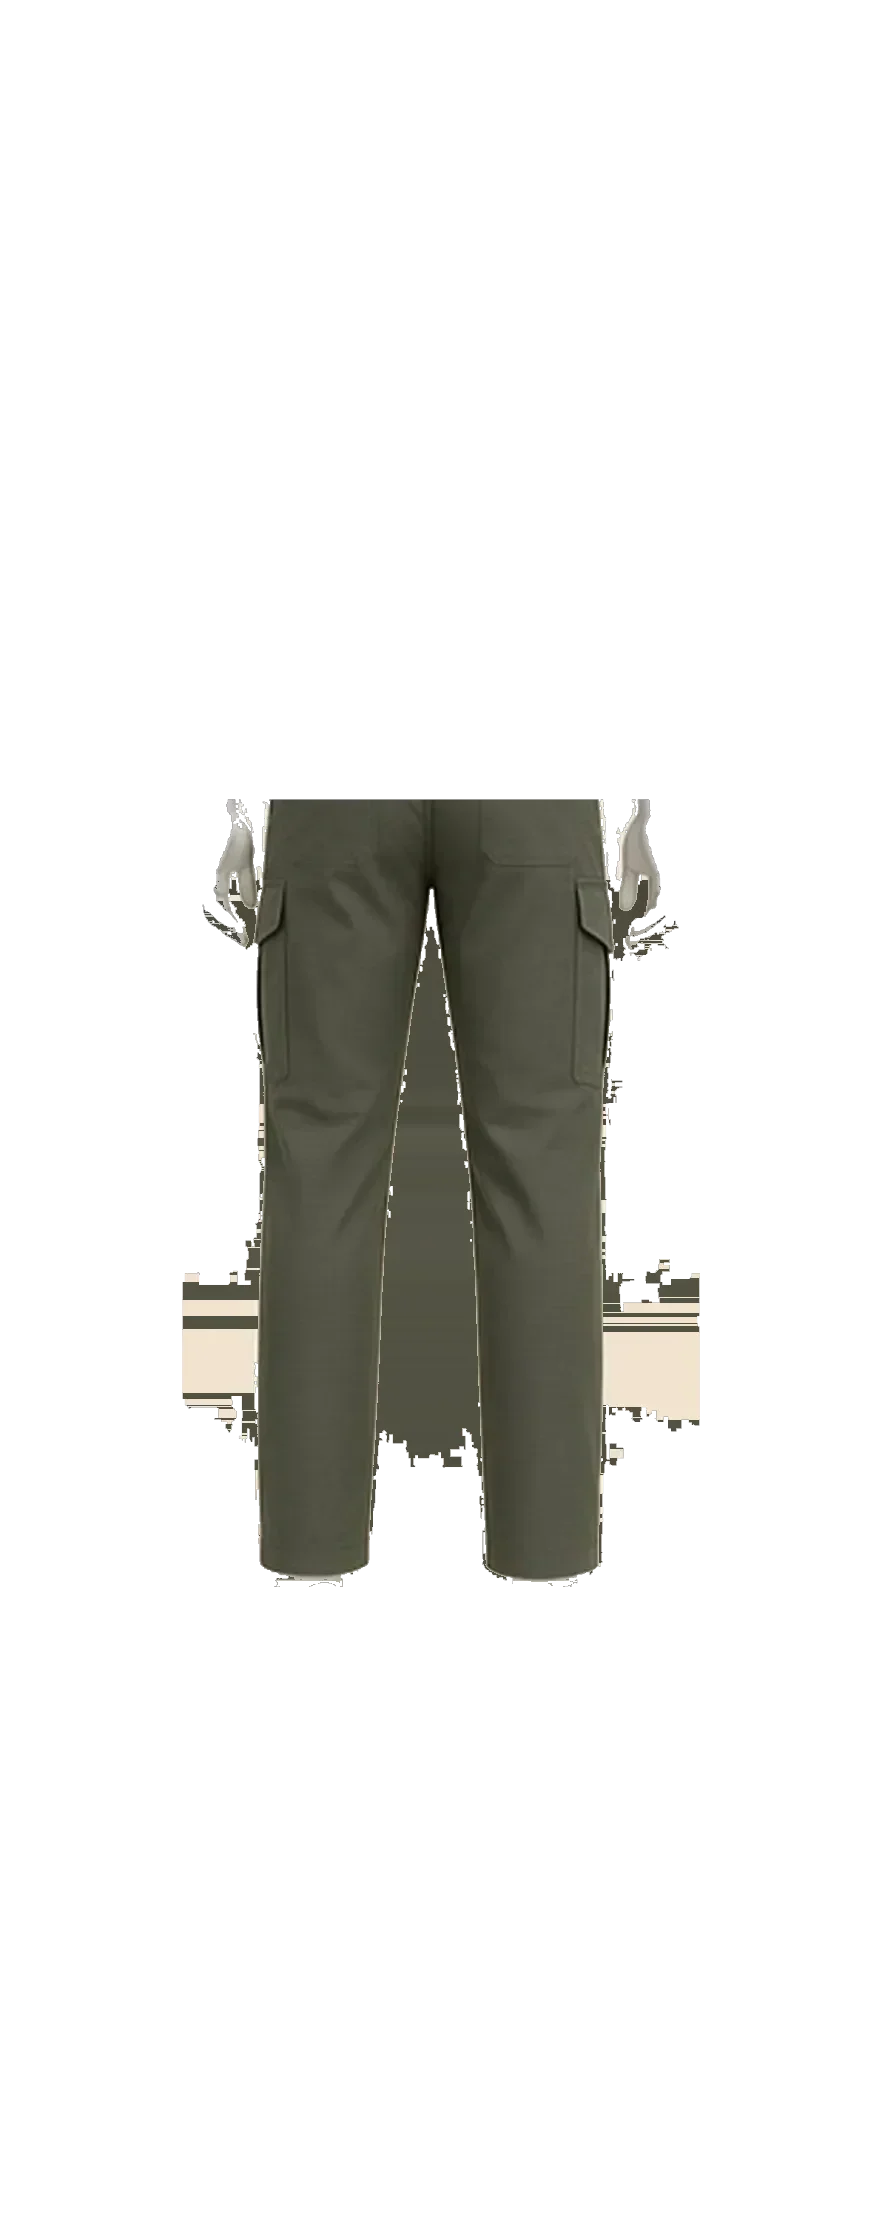
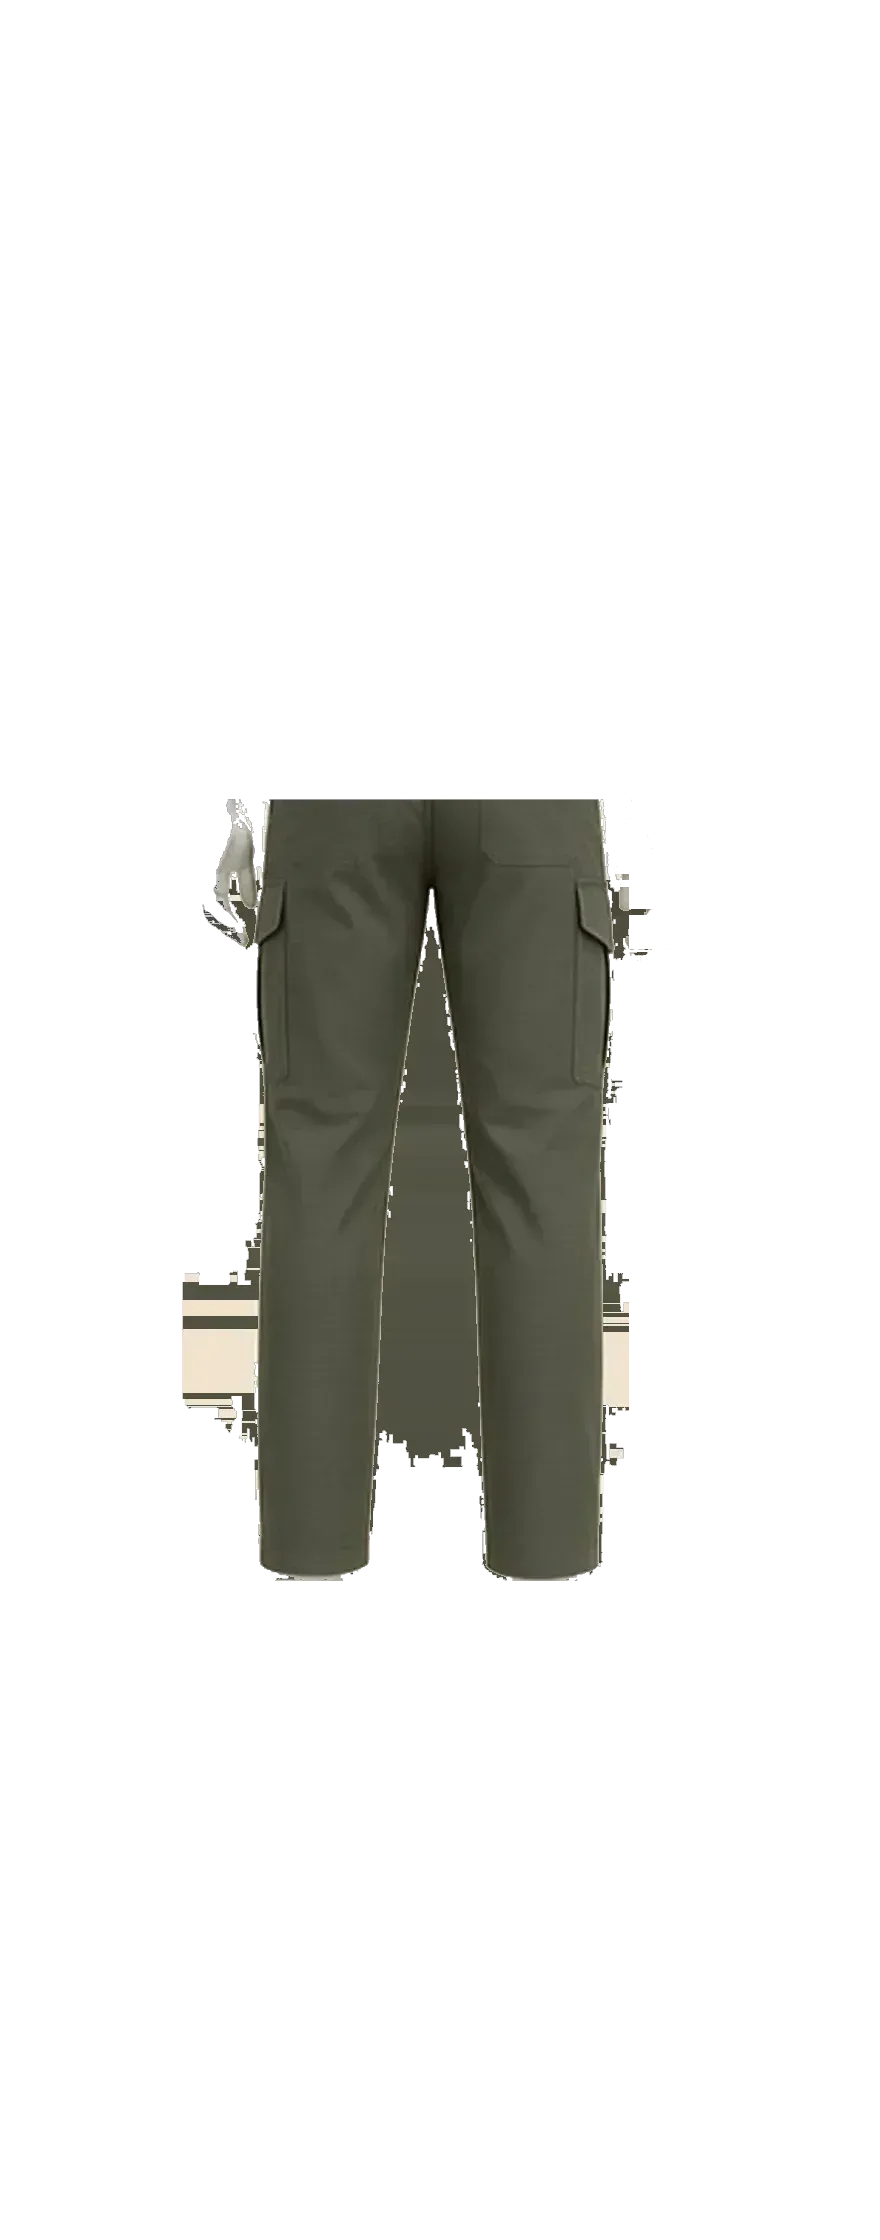
Viste el maniqui como a una persona: la camisa entra al pantalon, la correa queda en la cintura y la gorra en la cabeza.

Changed region(s): [[0.7057, 0.5625, 0.7977, 0.6562], [0.7057, 0.3438, 0.767, 0.4375]]

diff --git a/js/probar.js b/js/probar.js
@@ -23,7 +23,7 @@
   const note = document.querySelector("[data-fit-note]");
   const picksEl = document.querySelector("[data-fit-picks]");
   const add = document.querySelector("[data-fit-add]");
-  const puesto = { arriba: null, abajo: null, completo: null, cabeza: null, pies: null, cintura: null, manos: null, extra: [] };
+  const puesto = { arriba: null, abajo: null, completo: null, cabeza: null, cara: null, pies: null, cintura: null, manos: null, extra: [] };
   let tab = "camisas";
   let frames = [];
   let extras = [];
@@ -77,7 +77,7 @@
 
   function vista(item, numero) {
     const clave = item.id.toLowerCase().replace(/-/g, "");
-    return `img/puesto/${clave}-${String(numero).padStart(2, "0")}.webp?v=12`;
+    return `img/puesto/${clave}-${String(numero).padStart(2, "0")}.webp?v=13`;
   }
 
   function foto(item) {
@@ -89,7 +89,7 @@
   }
 
   function accesoriosPuestos() {
-    return [puesto.cabeza, puesto.pies, puesto.cintura, puesto.manos, ...puesto.extra].filter(Boolean);
+    return [puesto.cabeza, puesto.cara, puesto.pies, puesto.cintura, puesto.manos, ...puesto.extra].filter(Boolean);
   }
 
   function todosPuestos() {
@@ -100,33 +100,54 @@
     return todosPuestos().some((item) => item.id === id);
   }
 
-  const cuello = 150;
-  const cinturaY = 448;
-  const tobillo = 1005;
-  const trenSuperior = { y: cuello, alto: cinturaY - cuello + 20, ancho: 286 };
-  const trenInferior = { y: cinturaY - 16, alto: tobillo - (cinturaY - 16), ancho: 400, soporte: true };
-  const trenCompleto = { y: cuello, alto: tobillo - cuello, ancho: 286 };
+  const cuello = 196;
+  const cinturaY = 430;
+  const tobillo = 1004;
+  const planta = 1056;
+  const mete = 72;
+  const trenSuperior = { y: cuello, alto: cinturaY - cuello + mete, ancho: 320 };
+  const trenInferior = { y: cinturaY - 14, alto: tobillo - (cinturaY - 14), ancho: 260, soporte: true };
+  const trenCompleto = { y: cuello, alto: tobillo - cuello, ancho: 320 };
   const trenExtra = {
-    cabeza: { y: 28, alto: 128, ancho: 112, base: 152 },
-    cara: { y: 104, alto: 26, ancho: 72 },
-    cintura: { y: cinturaY - 6, alto: 26, ancho: 220 },
-    pies: { y: 940, alto: 92, ancho: 156, base: 1038 },
-    manos: { y: 380, alto: 72, ancho: 64, x: 336 },
+    cabeza: { y: 0, alto: 168, ancho: 148, base: 128 },
+    cara: { y: 124, alto: 28, ancho: 102 },
+    cintura: { y: cinturaY - 20, alto: 22, ancho: 148 },
+    pies: { y: planta - 84, alto: 84, ancho: 176, base: planta },
+    manos: { y: 500, alto: 78, ancho: 72 },
   };
 
   function figura(clase) {
+    const gid = "dt-vol-" + String(clase).replace(/[^a-z]/gi, "");
     const svg = document.createElementNS("http://www.w3.org/2000/svg", "svg");
     svg.setAttribute("class", clase);
     svg.setAttribute("viewBox", "0 0 440 1120");
     svg.setAttribute("aria-hidden", "true");
-    svg.innerHTML = `<defs><linearGradient id="dt-volumen" x1="0" y1="0" x2="1" y2="0"><stop offset="0" stop-color="#b7b1a6"/><stop offset="0.2" stop-color="#f7f4ee"/><stop offset="0.5" stop-color="#fffdfb"/><stop offset="0.8" stop-color="#efeae2"/><stop offset="1" stop-color="#aea79c"/></linearGradient></defs>
-      <ellipse cx="220" cy="1052" rx="54" ry="8" fill="rgba(40,32,20,0.16)"/>
-      <path fill="url(#dt-volumen)" d="M172 492c-4 70-8 240 0 430 2 24 12 42 26 44 12 1 20-14 20-34 0-130 2-300 4-410 0-14-16-24-26-26-12-2-22 4-24-4z"/>
-      <path fill="url(#dt-volumen)" d="M268 492c4 70 8 240 0 430-2 24-12 42-26 44-12 1-20-14-20-34 0-130-2-300-4-410 0-14 16-24 26-26 12-2 22 4 24-4z"/>
-      <path fill="url(#dt-volumen)" d="M150 168c-8 40-2 130 14 220 8 48 18 86 30 112h52c12-26 22-64 30-112 16-90 22-180 14-220-24 16-62 24-70 24s-46-8-70-24z"/>
-      <path fill="#efeae2" d="M204 122c2 14 4 26 6 40h20c2-14 4-26 6-40-6 4-16 6-16 6s-10-2-16-6z"/>
-      <ellipse cx="220" cy="86" rx="32" ry="38" fill="url(#dt-volumen)"/>
-      <ellipse cx="208" cy="80" rx="14" ry="22" fill="#fffdfb" opacity="0.55"/>`;
+    svg.innerHTML = `<defs>
+      <linearGradient id="${gid}" x1="0" y1="0" x2="1" y2="0">
+        <stop offset="0" stop-color="#8a847b"/>
+        <stop offset="0.14" stop-color="#d4cec3"/>
+        <stop offset="0.36" stop-color="#fbf8f4"/>
+        <stop offset="0.58" stop-color="#f1ece4"/>
+        <stop offset="0.82" stop-color="#c9c2b6"/>
+        <stop offset="1" stop-color="#7a746b"/>
+      </linearGradient>
+      <radialGradient id="${gid}-h" cx="40%" cy="36%" r="68%">
+        <stop offset="0" stop-color="#fffdfb"/>
+        <stop offset="0.45" stop-color="#efeae2"/>
+        <stop offset="1" stop-color="#9c968c"/>
+      </radialGradient>
+    </defs>
+      <ellipse cx="220" cy="1078" rx="70" ry="9" fill="rgba(40,32,20,0.16)"/>
+      <path fill="url(#${gid})" d="M170 548 C154 610 142 700 146 790 C150 860 154 930 158 990 C156 1020 150 1042 146 1054 C158 1068 198 1070 210 1056 C204 1030 196 1004 190 978 C186 900 184 820 188 760 C194 680 206 610 214 566 C200 548 182 540 170 548 Z"/>
+      <path fill="url(#${gid})" d="M270 548 C286 610 298 700 294 790 C290 860 286 930 282 990 C284 1020 290 1042 294 1054 C282 1068 242 1070 230 1056 C236 1030 244 1004 250 978 C254 900 256 820 252 760 C246 680 234 610 226 566 C240 548 258 540 270 548 Z"/>
+      <path fill="url(#${gid})" d="M150 224 C160 196 188 188 206 204 L234 204 C252 188 280 196 290 224 C302 260 298 320 290 370 C284 410 270 430 258 444 C268 488 276 518 268 548 C246 564 220 572 220 572 C220 572 194 564 172 548 C164 518 172 488 182 444 C170 430 156 410 150 370 C142 320 138 260 150 224 Z"/>
+      <path fill="url(#${gid})" d="M138 214 C118 230 102 280 104 340 C106 390 114 450 122 500 C126 524 120 542 126 558 C118 570 132 584 150 576 C164 568 160 544 154 522 C152 470 146 400 142 350 C138 290 152 246 166 220 C158 206 148 204 138 214 Z"/>
+      <path fill="url(#${gid})" d="M302 214 C322 230 338 280 336 340 C334 390 326 450 318 500 C314 524 320 542 314 558 C322 570 308 584 290 576 C276 568 280 544 286 522 C288 470 294 400 298 350 C302 290 288 246 274 220 C282 206 292 204 302 214 Z"/>
+      <path fill="#000" opacity="0.06" d="M176 218 C196 232 244 232 264 218 C248 234 192 234 176 218 Z"/>
+      <path fill="url(#${gid})" d="M202 160 C198 178 192 194 186 210 L254 210 C248 194 242 178 238 160 C226 168 214 168 202 160 Z"/>
+      <ellipse cx="176" cy="116" rx="9" ry="13" fill="url(#${gid})"/>
+      <ellipse cx="264" cy="116" rx="9" ry="13" fill="url(#${gid})"/>
+      <path fill="url(#${gid}-h)" d="M220 48 C246 48 268 70 270 100 C272 126 262 148 248 160 C236 172 228 178 220 180 C212 178 204 172 192 160 C178 148 168 126 170 100 C172 70 194 48 220 48 Z"/>`;
     return svg;
   }
 
@@ -177,9 +198,9 @@
   function medidaFrente(img, box, tren) {
     const bw = box.w * (440 / img.naturalWidth);
     const bh = box.h * (1120 / img.naturalHeight);
-    let scale = tren.alto / Math.max(1, bh);
-    if (bw * scale > tren.ancho) scale = tren.ancho / Math.max(1, bw);
-    return scale;
+    const porAlto = tren.alto / Math.max(1, bh);
+    const porAncho = tren.ancho / Math.max(1, bw);
+    return Math.max(porAlto, porAncho);
   }
 
   function pintarRecorte(canvas, img, box, scale, tren) {
@@ -214,10 +235,10 @@
     const corto = /\blicra\b|pantaloneta|\bfalda\b|bermuda/.test(plain(item.name));
     const largo = /chaqueta|chaleco/.test(plain(item.name));
     const tren = clase === "fit-abajo"
-      ? (corto ? { y: cinturaY - 16, alto: 220, ancho: 210, soporte: true } : trenInferior)
+      ? (corto ? { y: cinturaY - 14, alto: 248, ancho: 230, soporte: true } : trenInferior)
       : clase === "fit-full"
         ? trenCompleto
-        : (largo ? { y: cuello, alto: 400, ancho: 310 } : trenSuperior);
+        : (largo ? { y: cuello, alto: 520, ancho: 340 } : trenSuperior);
     const zonaNombre = clase === "fit-abajo" ? "abajo" : clase === "fit-full" ? "completo" : "arriba";
     const imgs = [];
     const lienzos = [];
@@ -231,6 +252,7 @@
       canvas.className = "fit-capa";
       canvas.dataset.grupo = item.id;
       canvas.dataset.zona = zonaNombre;
+      canvas.dataset.prenda = categoria(item);
       canvas.style.cssText = "opacity:0;visibility:hidden;";
       lienzos.push(canvas);
       caja.append(canvas);
@@ -267,42 +289,86 @@
     ctx.drawImage(img, box.x, box.y, box.w, box.h, dx, dy, dw, dh);
   }
 
-  function vestirCintura(canvas, img, box) {
-    const ctx = canvas.getContext("2d");
-    const y = cinturaY - 4;
-    ctx.fillStyle = "#161616";
-    ctx.beginPath();
-    ctx.roundRect(112, y, 216, 18, 8);
-    ctx.fill();
-    ctx.fillStyle = "#3a3a3a";
-    ctx.fillRect(112, y, 216, 3);
-    const bw = Math.max(1, box.w * 0.38);
-    const bh = Math.max(1, box.h * 0.62);
-    const bx = box.x + (box.w - bw) / 2;
-    const by = box.y + box.h * 0.18;
-    ctx.drawImage(img, bx, by, bw, bh, 176, y - 22, 88, 58);
+  function colorTela(img, box) {
+    const c = document.createElement("canvas");
+    c.width = img.naturalWidth;
+    c.height = img.naturalHeight;
+    const ctx = c.getContext("2d", { willReadFrequently: true });
+    ctx.drawImage(img, 0, 0);
+    const puntos = [
+      [box.x + box.w * 0.5, box.y + box.h * 0.55],
+      [box.x + box.w * 0.2, box.y + box.h * 0.5],
+      [box.x + box.w * 0.8, box.y + box.h * 0.5]
+    ];
+    let r = 0;
+    let g = 0;
+    let b = 0;
+    let n = 0;
+    puntos.forEach(([x, y]) => {
+      const px = ctx.getImageData(Math.max(0, Math.floor(x)), Math.max(0, Math.floor(y)), 1, 1).data;
+      if (px[3] < 40) return;
+      r += px[0];
+      g += px[1];
+      b += px[2];
+      n += 1;
+    });
+    if (!n) return "#1a1a1a";
+    return `rgb(${Math.round(r / n)},${Math.round(g / n)},${Math.round(b / n)})`;
   }
 
-  function vestirAccesorio(item, zone) {
-    const tren = { ...(trenExtra[zone] || trenExtra.cintura) };
+  function vestirCintura(correa, hebilla, img, box) {
+    const y = cinturaY - 18;
+    const ctx = correa.getContext("2d");
+    ctx.fillStyle = colorTela(img, box);
+    ctx.beginPath();
+    ctx.roundRect(136, y, 168, 16, 7);
+    ctx.fill();
+    ctx.fillStyle = "rgba(255,255,255,0.18)";
+    ctx.fillRect(136, y, 168, 3);
+    const h = hebilla.getContext("2d");
+    const bw = Math.max(1, box.w * 0.34);
+    const bh = Math.max(1, box.h * 0.55);
+    const bx = box.x + (box.w - bw) / 2;
+    const by = box.y + box.h * 0.2;
+    h.drawImage(img, bx, by, bw, bh, 188, y - 10, 64, 40);
+  }
+
+  function vestirManos(canvas, img, box) {
+    [[96, 508], [272, 508]].forEach(([x, y]) => {
+      pintarFoto(canvas, img, box, { x, y, ancho: 72, alto: 78 });
+    });
+  }
+
+  function lienzoAccesorio(zone) {
     const canvas = document.createElement("canvas");
     canvas.width = 440;
     canvas.height = 1120;
     canvas.className = "fit-capa fit-accesorio";
     canvas.dataset.zona = zone;
+    return canvas;
+  }
+
+  function vestirAccesorio(item, zone) {
+    const tren = { ...(trenExtra[zone] || trenExtra.cintura) };
+    const canvas = lienzoAccesorio(zone);
+    const extra = zone === "cintura" ? lienzoAccesorio("hebilla") : null;
     const image = new Image();
     image.src = foto(item);
     cuandoCargue(image, () => {
       const box = cajaDe(image) || { x: 0, y: 0, w: image.naturalWidth, h: image.naturalHeight };
       if (!box.w || !image.naturalWidth) return;
       if (zone === "cintura") {
-        vestirCintura(canvas, image, box);
+        vestirCintura(canvas, extra, image, box);
         return;
       }
-      if (zone === "pies") tren.base = 1038;
+      if (zone === "manos") {
+        vestirManos(canvas, image, box);
+        return;
+      }
+      if (zone === "pies") tren.base = planta;
       pintarFoto(canvas, image, box, tren);
     });
-    return canvas;
+    return extra ? [canvas, extra] : canvas;
   }
 
   function paint() {
@@ -358,8 +424,9 @@
     cuerpoCaja.className = "fit-body";
     stage.replaceChildren(cuerpoCaja);
     const base = figura("fit-blank");
-    if (puesto.pies) base.style.clipPath = "inset(0 0 6% 0)";
-    else if (puesto.abajo && !/\blicra\b|pantaloneta|\bfalda\b|bermuda/.test(plain(puesto.abajo.name))) base.style.clipPath = "inset(0 0 4% 0)";
+    const abajoCorto = puesto.abajo && /\blicra\b|pantaloneta|\bfalda\b|bermuda/.test(plain(puesto.abajo.name));
+    if (puesto.completo) base.style.clipPath = "inset(0 0 82% 0)";
+    else if (puesto.abajo && !abajoCorto) base.style.clipPath = "inset(0 0 58% 0)";
     cuerpoCaja.append(base);
     frames = [];
     extras = [];
@@ -370,15 +437,17 @@
     });
     if ((puesto.arriba || puesto.completo) && !puesto.cabeza) {
       const piel = figura("fit-piel");
-      piel.style.clipPath = "inset(0 0 86% 0)";
+      piel.style.clipPath = "inset(0 0 84% 0)";
       cuerpoCaja.append(piel);
     }
     accesoriosPuestos().forEach((item) => {
       const zone = zona(item);
       if (!trenExtra[zone]) return;
-      const lienzo = vestirAccesorio(item, zone);
-      cuerpoCaja.append(lienzo);
-      extras.push(lienzo);
+      const lienzos = vestirAccesorio(item, zone);
+      (Array.isArray(lienzos) ? lienzos : [lienzos]).forEach((lienzo) => {
+        cuerpoCaja.append(lienzo);
+        extras.push(lienzo);
+      });
     });
     angle = frames.length ? angle : 0;
     paint();
@@ -386,7 +455,7 @@
   }
 
   function quitar(id) {
-    ["arriba", "abajo", "completo", "cabeza", "pies", "cintura", "manos"].forEach((key) => {
+    ["arriba", "abajo", "completo", "cabeza", "cara", "pies", "cintura", "manos"].forEach((key) => {
       if (puesto[key] && puesto[key].id === id) puesto[key] = null;
     });
     puesto.extra = puesto.extra.filter((item) => item.id !== id);
@@ -508,7 +577,7 @@
       note.textContent = "En el carrito no hay prendas ni accesorios para vestir el maniquí.";
       return;
     }
-    ["arriba", "abajo", "completo", "cabeza", "pies", "cintura", "manos"].forEach((key) => { puesto[key] = null; });
+    ["arriba", "abajo", "completo", "cabeza", "cara", "pies", "cintura", "manos"].forEach((key) => { puesto[key] = null; });
     puesto.extra = [];
     items.forEach((item) => poner(item));
     pintarGrid();

diff --git a/probar.html b/probar.html
@@ -10,7 +10,7 @@
     <link rel="preconnect" href="https://fonts.googleapis.com" />
     <link rel="preconnect" href="https://fonts.gstatic.com" crossorigin />
     <link href="https://fonts.googleapis.com/css2?family=Big+Shoulders+Display:wght@500;600;700&family=Outfit:wght@300;400;500;600&display=swap" rel="stylesheet" />
-    <link rel="stylesheet" href="css/styles.css?v=real106" />
+    <link rel="stylesheet" href="css/styles.css?v=real107" />
     <script>document.documentElement.classList.add("js");</script>
   </head>
   <body data-wa="573227043082">
@@ -75,7 +75,7 @@
     </a>
     <script src="js/productos.js?v=real44" defer></script>
     <script src="js/store.js?v=real90" defer></script>
-    <script src="js/probar.js?v=37" defer></script>
+    <script src="js/probar.js?v=42" defer></script>
     <script src="js/main.js?v=real45" defer></script>
   </body>
 </html>

diff --git a/css/styles.css b/css/styles.css
@@ -1025,18 +1025,34 @@ button.consult {
   pointer-events: none;
 }
 
-.fit-capa[data-zona="arriba"],
-.fit-capa[data-zona="completo"] {
+.fit-capa[data-zona="arriba"] {
   z-index: 2;
 }
 
-.fit-accesorio {
-  z-index: 8;
+.fit-capa[data-zona="cintura"] {
+  z-index: 3;
+}
+
+.fit-capa[data-zona="abajo"],
+.fit-capa[data-zona="completo"] {
+  z-index: 4;
 }
 
 .fit-capa[data-prenda="chaquetas"],
 .fit-capa[data-prenda="chalecos"] {
+  z-index: 5;
+}
+
+.fit-accesorio {
+  z-index: 7;
+}
+
+.fit-capa.fit-accesorio[data-zona="cintura"] {
   z-index: 3;
+}
+
+.fit-capa[data-zona="hebilla"] {
+  z-index: 8;
 }
 
 .variant-row {
@@ -1082,7 +1098,7 @@ button.consult {
 }
 
 .fit-capa[data-zona="completo"] {
-  z-index: 2;
+  z-index: 4;
 }
 
 .fit-room [data-fit-name] {
